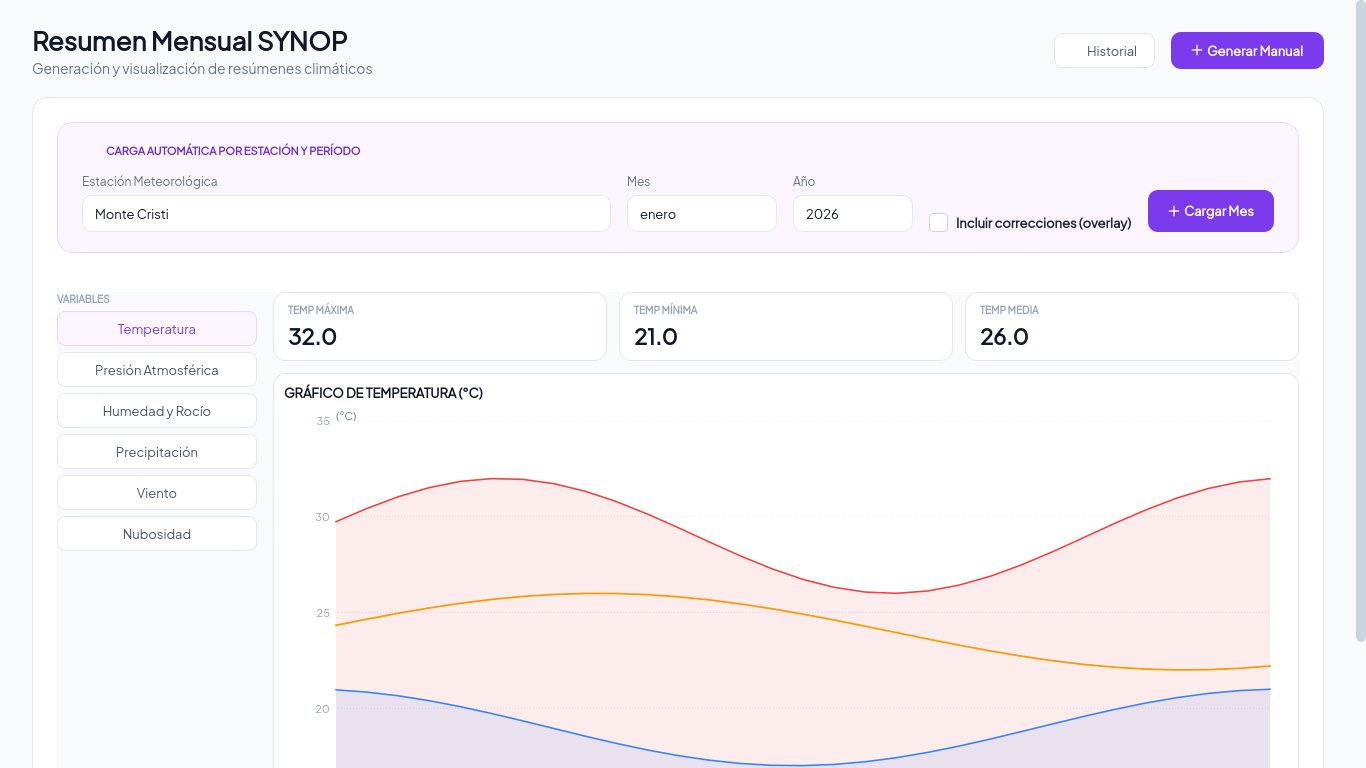
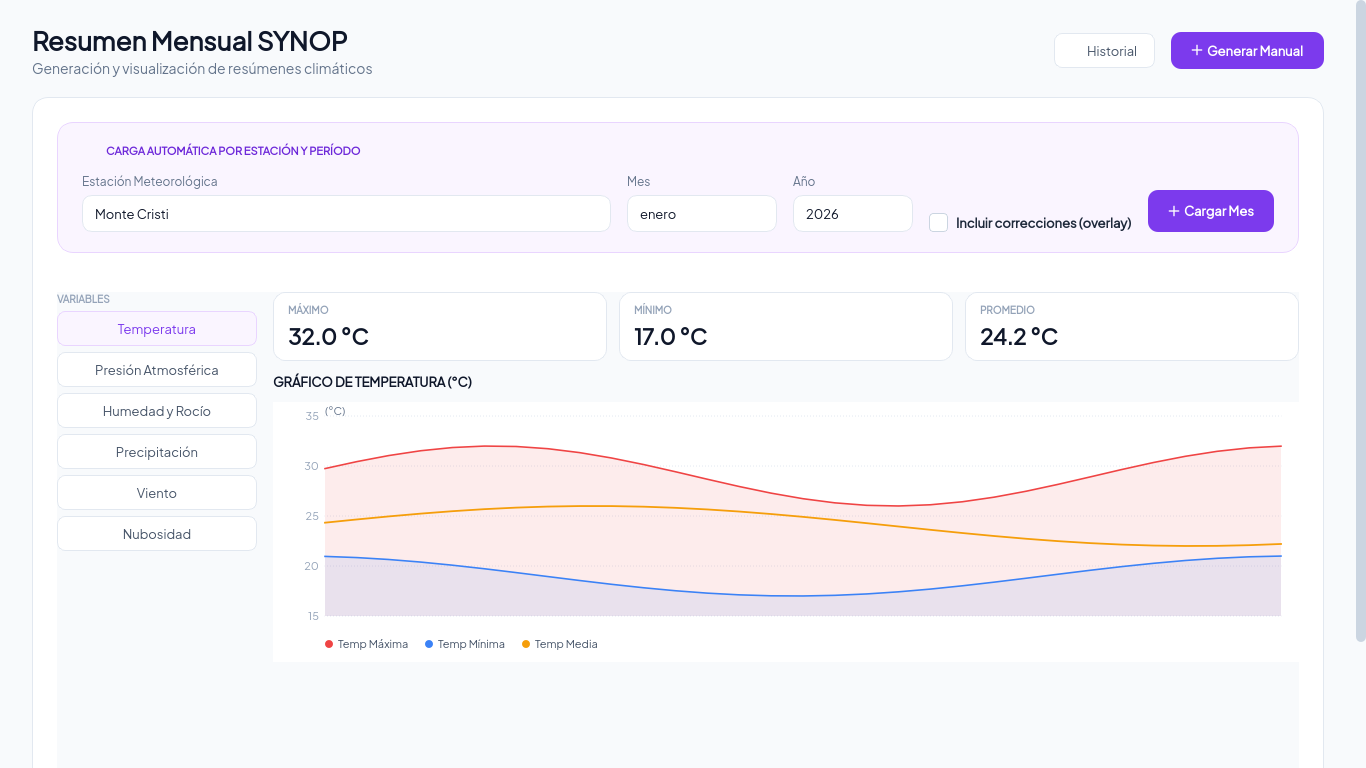
feat(summary): tarjetas del grupo y gráfico que entra completo (F7, corte 3)
Las tarjetas muestran **máximo, mínimo y promedio del grupo** con su unidad,
como OLD, calculadas sobre las series principales: el rocío y el recorrido —que
van al eje derecho— no ensucian la estadística de humedad ni de viento.

Para que el gráfico y su leyenda entren en 768 px se quitó el marco intermedio
que repartía el espacio de forma impredecible: título y gráfico van directos en
la columna, con alto fijo. Captura verificada: leyenda visible al pie con sus
tres series.

Un intento previo envolvía la vista en un QScrollArea propio. El test
`test_page_flows_in_a_single_scroll_region` lo rechazó y con razón: el doble
scroll del Resumen fue un bug real que el dueño hizo arreglar. La regla se
respeta: una sola zona de scroll, y el gráfico entra por altura.

843 passed, EXIT=0, sin avisos de parseo. F7 cerrada en tres cortes.

diff --git a/oms_ui/pages/summary.py b/oms_ui/pages/summary.py
@@ -541,23 +541,19 @@ class SummaryPage(QWidget):
             self._chart_cards.append((caption, valor))
         derecha.addLayout(tarjetas)
 
-        self._chart = GraficoGrupo(ORDEN[0], {})
-        marco = QFrame()
-        marco.setObjectName("card")
-        marco.setStyleSheet(_qss(
-            "QFrame#card { background-color: $superficie;"
-            " border: 1px solid $borde; border-radius: 12px; }"
-        ))
-        marco_layout = QVBoxLayout(marco)
-        marco_layout.setContentsMargins(10, 10, 10, 10)
         self._chart_title = _label("", size=13, weight=800)
-        marco_layout.addWidget(self._chart_title)
-        marco_layout.addWidget(self._chart, 1)
-        derecha.addWidget(marco, 1)
+        derecha.addWidget(self._chart_title)
+        self._chart = GraficoGrupo(ORDEN[0], {})
+        derecha.addWidget(self._chart)
+        derecha.addStretch(1)
         layout.addLayout(derecha, 1)
 
         self._chart_group = ORDEN[0]
         self.select_chart_group(ORDEN[0])
+
+        # El Resumen tiene UNA sola zona de scroll (regla del dueño: el doble
+        # scroll fue un bug). El gráfico entra por altura, no por scroll propio.
+        self._chart.setFixedHeight(260)
         return view
 
     def select_chart_group(self, grupo: str) -> None:
@@ -575,16 +571,31 @@ class SummaryPage(QWidget):
         )
         for boton, clave in zip(self._chart_buttons.values(), GRUPOS):
             boton.setStyleSheet(_qss(_pill_qss(clave == grupo)))
-        series = [self._chart._serie(c) for _f, _n, c, _r in config["series"]]
-        pares = [(n, s) for (_f, n, _c, _r), s in zip(config["series"], series) if s]
-        for indice, (caption, valor) in enumerate(self._chart_cards):
-            if indice < len(pares):
-                nombre, datos = pares[indice]
-                caption.setText(nombre.upper())
-                valor.setText(f"{max(datos):.1f}")
+        # Estadísticas del grupo: máximo, mínimo y promedio de sus series
+        # principales (las del eje izquierdo), como en OLD.
+        secundaria = config.get("secundario")
+        valores = [
+            v
+            for _f, _n, clave, _r in config["series"]
+            if clave != secundaria
+            for v in self._chart._serie(clave)
+        ]
+        if valores:
+            resumen = (
+                ("MÁXIMO", max(valores)),
+                ("MÍNIMO", min(valores)),
+                ("PROMEDIO", sum(valores) / len(valores)),
+            )
+        else:
+            resumen = (("MÁXIMO", None), ("MÍNIMO", None), ("PROMEDIO", None))
+        for (caption, valor), (etiqueta, numero) in zip(self._chart_cards, resumen):
+            caption.setText(etiqueta)
+            if numero is None:
+                valor.setText("—")
             else:
-                caption.setText("")
-                valor.setText("")
+                unidad = config["unidad"]
+                sufijo = "" if unidad == "octavos" else f" {unidad}"
+                valor.setText(f"{numero:.1f}{sufijo}")
         self._chart.update()
 
     def chart_series(self) -> dict[str, list[float]]:
